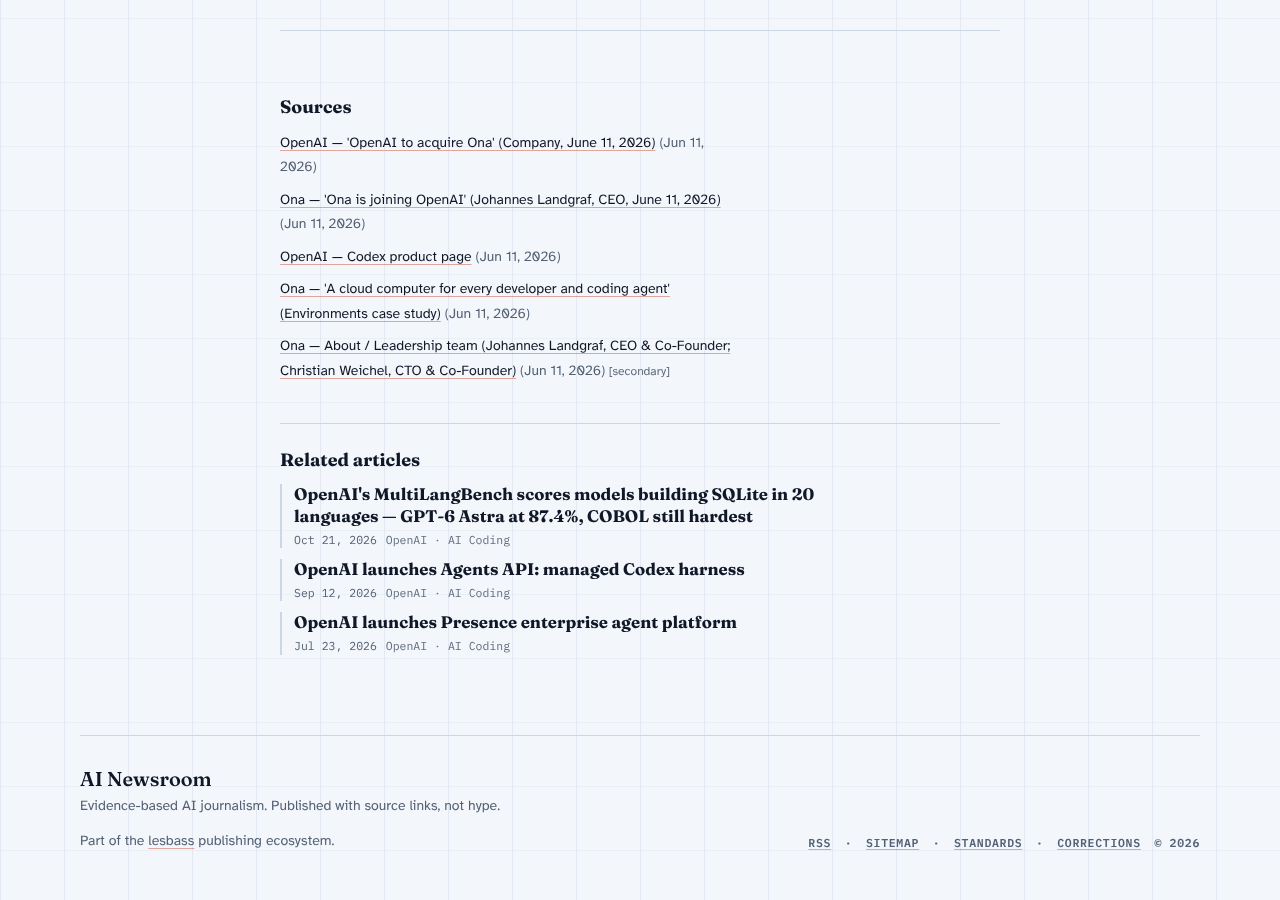
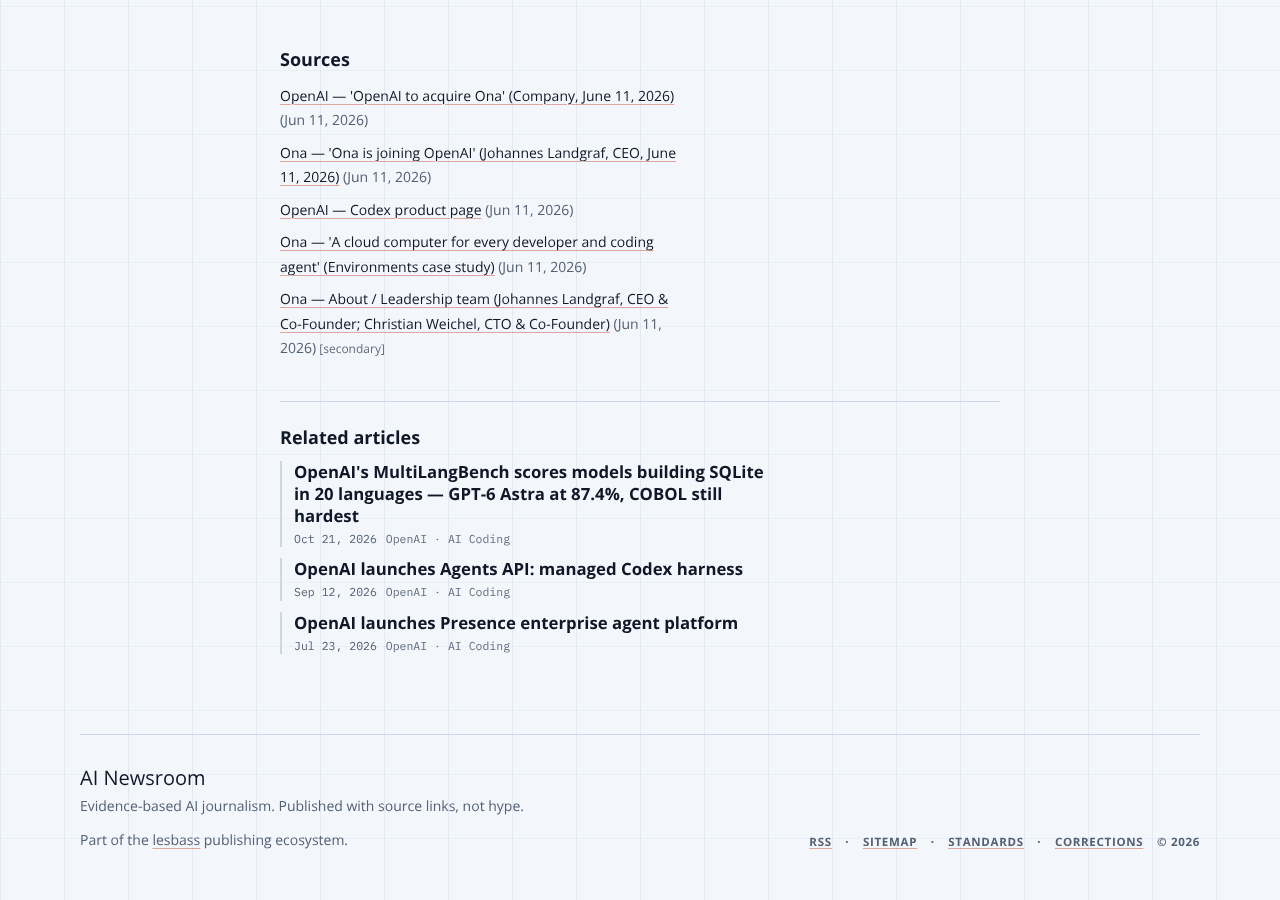
docs: record AIN-1030 live related-articles verification

diff --git a/docs/audit-reports/2026-10-22-ain1030.md b/docs/audit-reports/2026-10-22-ain1030.md
@@ -42,11 +42,16 @@
   minor/moderate nodes
 - glyph coverage and headline break checks: pass
 
-Real-browser checks (Playwright Chromium, bundled `scripts/browser.mjs`), at
-390×844 and 1280×900, on three representative article pages:
+Real-browser checks (Playwright Chromium, bundled `scripts/browser.mjs`) at
+390×844 and 1280×900:
 
-- `document.documentElement.scrollWidth === clientWidth` (390/390 and
-  1280/1280); no element extends past the viewport.
-- Related section present with 3 links on each sampled page.
-- Screenshots: `docs/audit-reports/2026-10-22-ain1030/related-mobile.png` and
+- Local build: three representative article pages; related section present with
+  3 links on each, `scrollWidth === clientWidth`, no element past the viewport.
+- Live production after the Workers Build for `991477e` succeeded:
+  `/articles/openai-ona-acquisition-2026/` at both widths, 3 related links,
+  scroll 390/390 and 1280/1280, no overflowing elements.
+- `test:deploy-freshness` and `test:live` pass against
+  `https://news.lesbass.com/`.
+- Screenshots are live production captures:
+  `docs/audit-reports/2026-10-22-ain1030/related-mobile.png` and
   `docs/audit-reports/2026-10-22-ain1030/related-desktop.png`.
